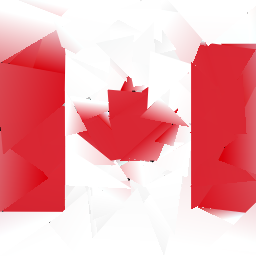
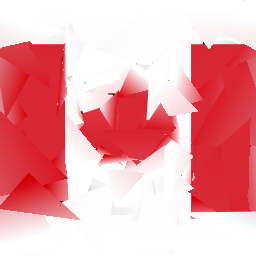
one color per triangle: same_color.py not good, may need to use loss to learn this

diff --git a/same_color.py b/same_color.py
@@ -39,7 +39,7 @@ num_triangles = 100
 boundary = 0.8
 
 xy_coords = torch.zeros([num_triangles * 3, 2], dtype=torch.float32).to(device)
-# col_value = torch.zeros([num_triangles * 3, 1], dtype=torch.float32).to(device)
+tri_col_value = torch.zeros([num_triangles, 3], dtype=torch.float32).to(device)
 
 for i in range(num_triangles):
     center = (random.uniform(-boundary, boundary), random.uniform(-boundary, boundary))
@@ -48,14 +48,14 @@ for i in range(num_triangles):
     for j in range(3):
         coord = get_coord(theta + j * 2.0 * np.pi / 3.0, center, radius)
         xy_coords[3 * i + j, 0], xy_coords[3 * i + j, 1] = coord[0], coord[1]
-        arr_col.append([0.5, 0.5, 0.5])
+        # arr_col.append([0.5, 0.5, 0.5])
         # col_value[3 * i + j, 0] = 0.5
     arr_tri.append([3 * i, 3 * i + 1, 3 * i + 2])
 
-col = tensor([arr_col], dtype=torch.float32).requires_grad_().to(device)
+# col = tensor([arr_col], dtype=torch.float32).requires_grad_().to(device)
 tri = tensor(arr_tri, dtype=torch.int32)
 xy_coords.requires_grad_()
-# col_value.requires_grad_()
+tri_col_value.requires_grad_()
 
 glctx = dr.RasterizeGLContext()
 render_resolution = [256, 256]
@@ -67,19 +67,20 @@ target_img = cv2.resize(target_img, render_resolution)
 cv2.imwrite('check.png', cv2.cvtColor(target_img * 255, cv2.COLOR_RGB2BGR))
 target_img = torch.Tensor(target_img).to(device)
 
-epochs = 1000
+epochs = 3000
 # optimizer = optim.Adam([xy_coords], lr=0.001)
-optimizer = optim.Adam([xy_coords, col], lr=0.001)
+# optimizer = optim.Adam([xy_coords, col], lr=0.001)
+optimizer = optim.Adam([xy_coords, tri_col_value], lr=0.01)
 for i in range(epochs):
     optimizer.zero_grad()
     pos = torch.zeros([num_triangles * 3, 4], dtype=torch.float32).to(device)
     pos[:,0:2] = xy_coords
     pos[:, 3] = 1
 
-    # col = torch.zeros([num_triangles * 3, 3], dtype=torch.float32).requires_grad_().to(device)
-    # col[:, 0] = col_value[:,0]
-    # col[:, 1] = col_value[:,0]
-    # col[:, 2] = col_value[:,0]
+    col = torch.zeros([num_triangles * 3, 3], dtype=torch.float32).requires_grad_().to(device)
+    col[torch.arange(0, 3 * num_triangles, 3), :] = tri_col_value[:, :]
+    col[torch.arange(1, 3 * num_triangles, 3), :] = tri_col_value[:, :]
+    col[torch.arange(2, 3 * num_triangles, 3), :] = tri_col_value[:, :]
 
     pos = torch.unsqueeze(pos, 0)
     rast, _ = dr.rasterize(glctx, pos, tri, resolution=render_resolution)
